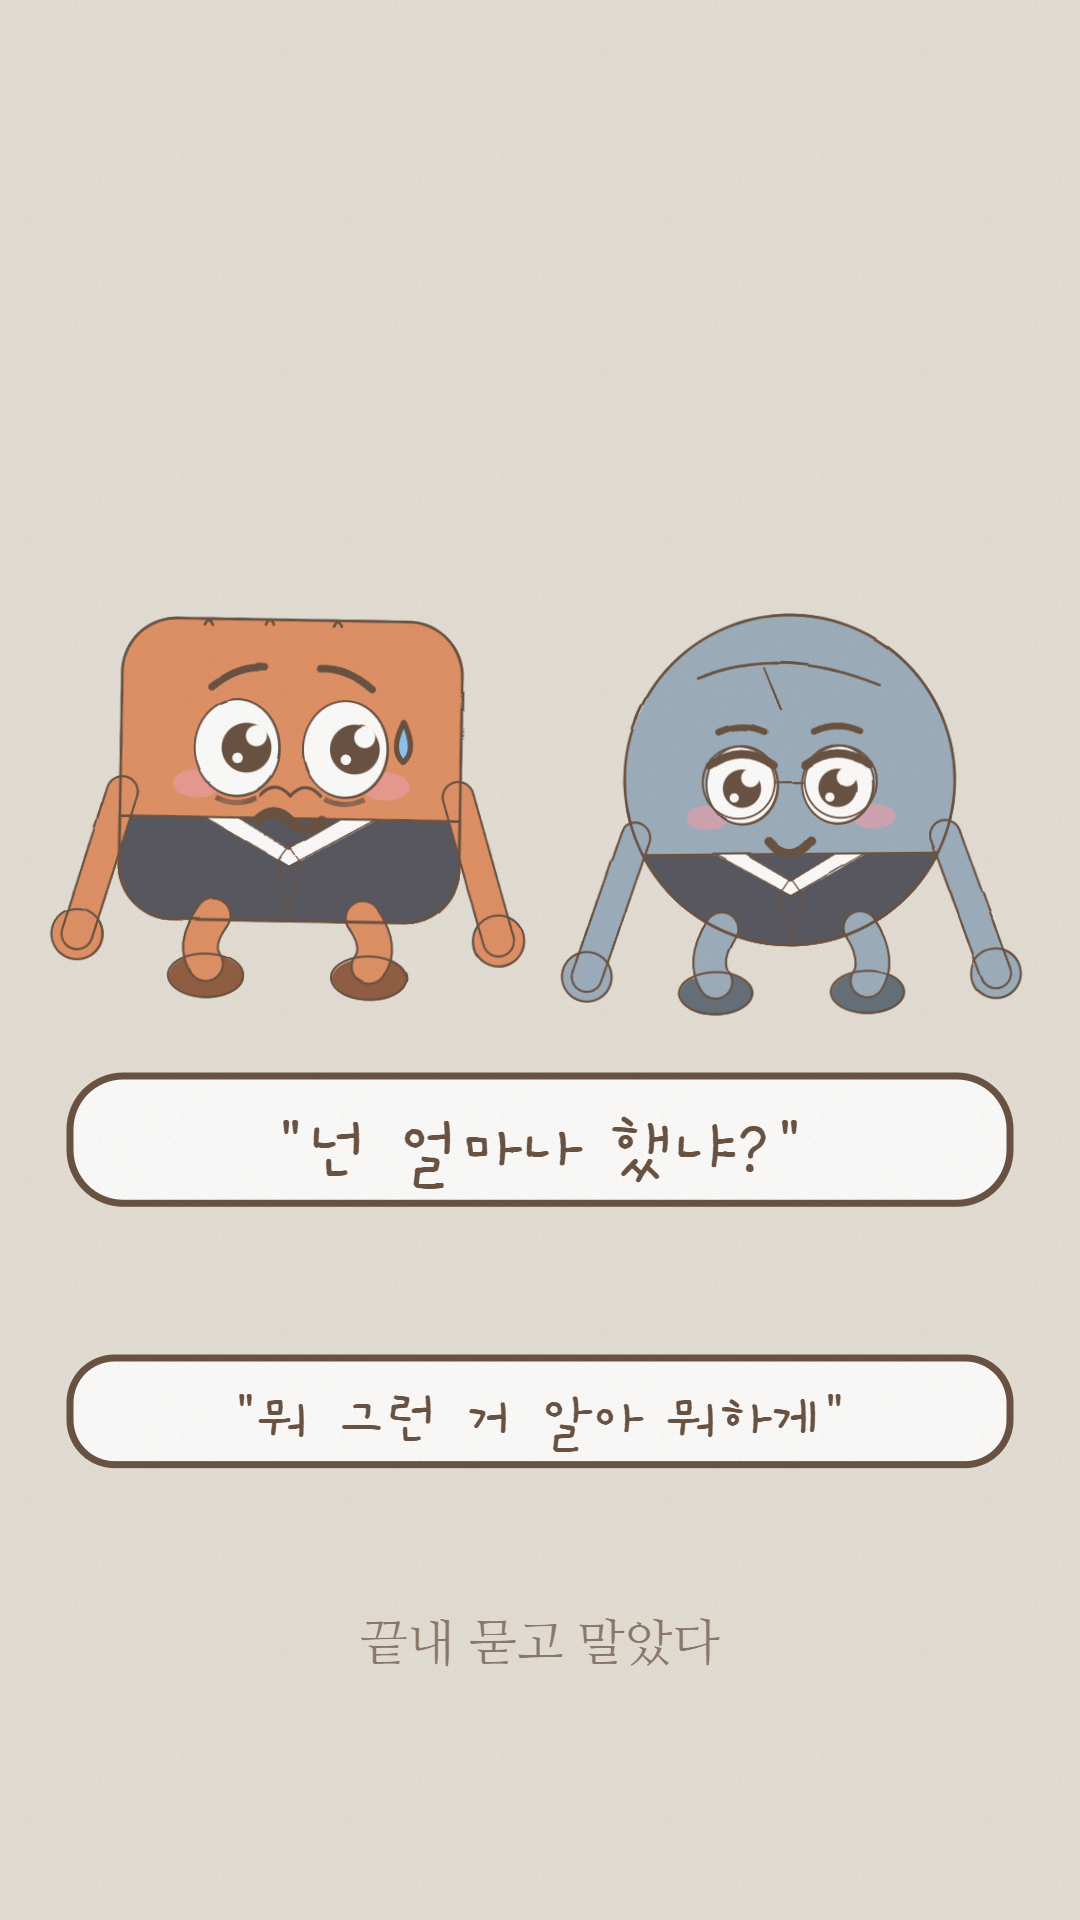
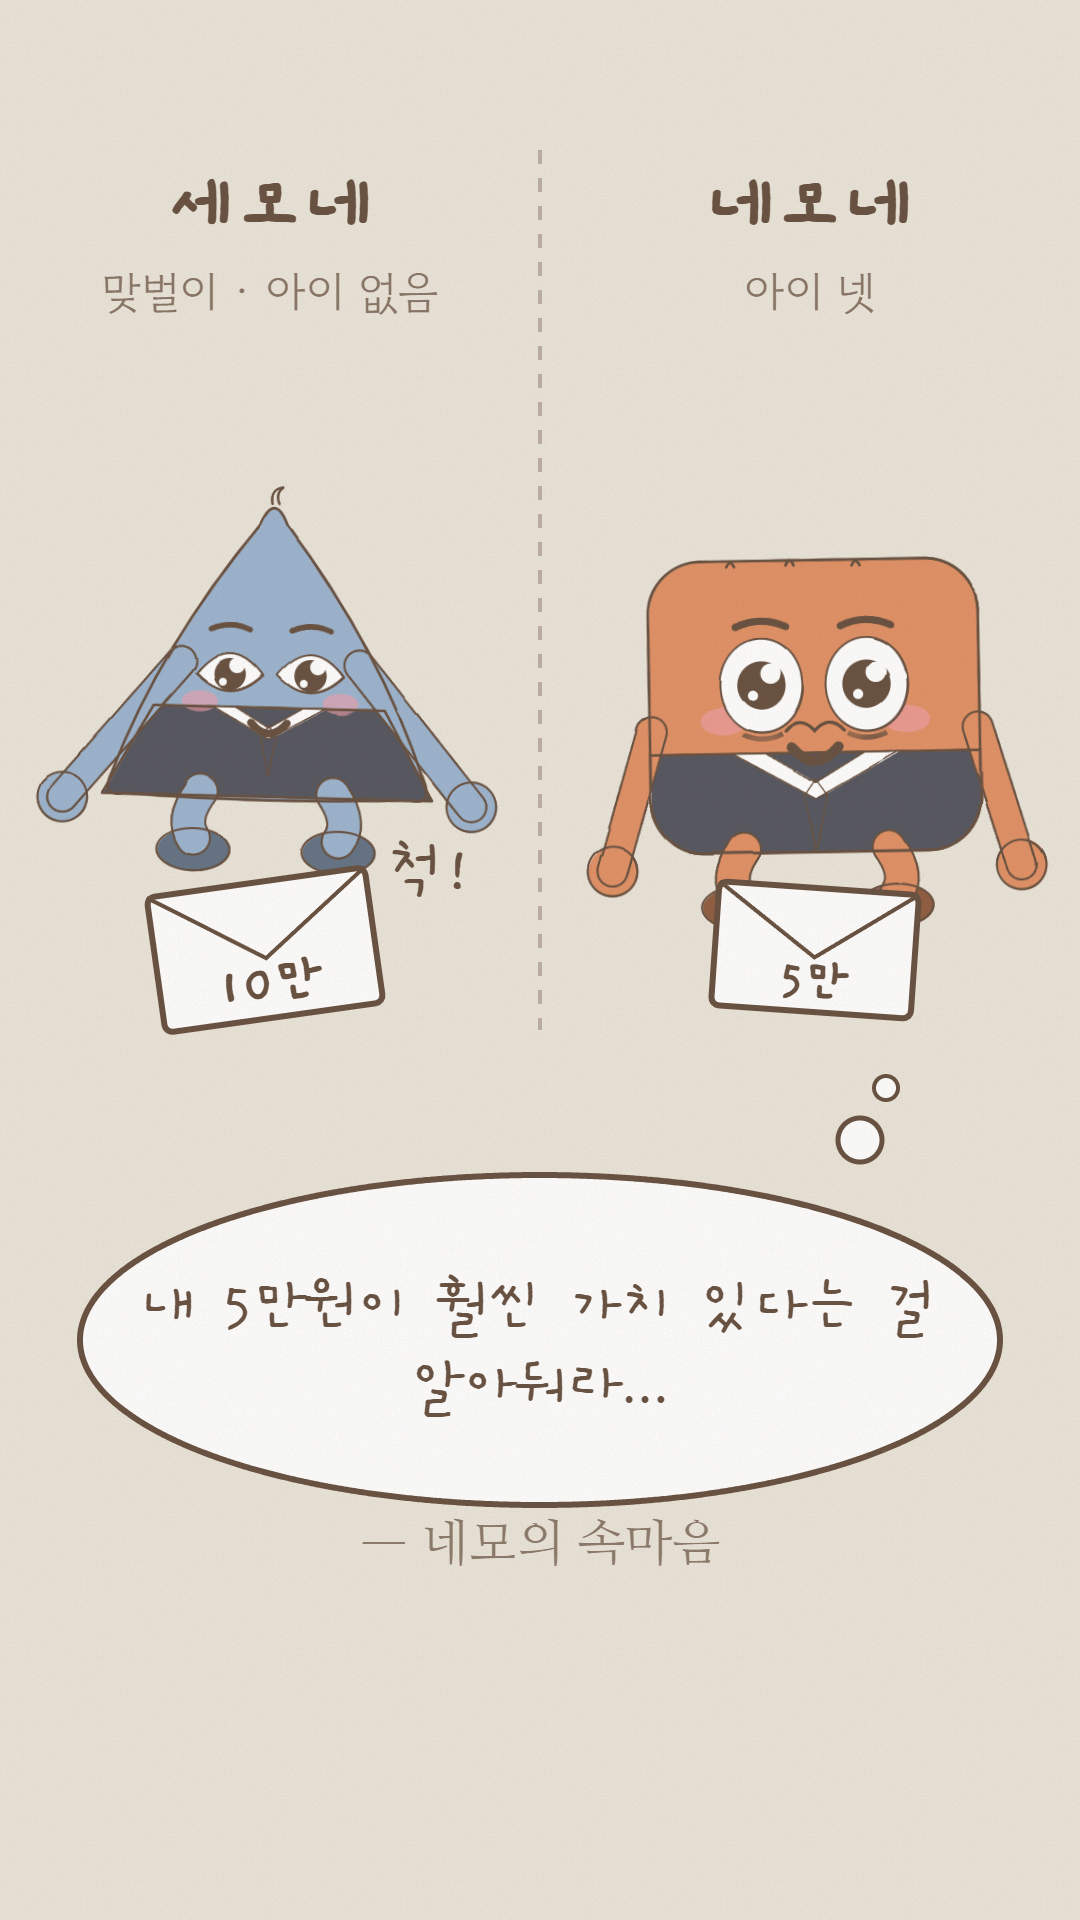
[shorts] s02 컷4 교체 — 세모네 10만 척 vs 네모네 5만 + 속마음 '알아둬라'
의미 없던 원작 대화 대신 두 가족 대비로 세계관을 소개한다. 컷4 재녹음 대기.

Claude-Session: https://claude.ai/code/session_01B59xgHZtNiHCFMMXcUhcu9

diff --git a/web/shorts/s02.html b/web/shorts/s02.html
@@ -80,13 +80,30 @@ frame('#eef0ea', `
   ${src('SM C&C 틸리언 프로 2026.5 · 전국 성인 1,500명')}
 `);
 
-// ── 4 원작 대사 — 정답은 아무도 모른다 ──
-frame('#e6e1d8', `
-  ${nemoDad({ x: 120, y: 620, w: 340, h: 301, emo: 'worry', suit: true, gaze: 1 })}
-  ${dongDad({ cx: 790, cy: 780, r: 165, emo: 'calm', suit: true })}
-  ${line(1150, '"넌 얼마나 했냐?"', 74)}
-  ${line(1420, '"뭐 그런 거 알아 뭐하게"', 62)}
-  ${label('끝내 묻고 말았다', 1660)}
+// ── 4 두 가족의 봉투 — 세모는 고민 없이 10만, 네모의 속마음 ──
+// 큰 부의 봉투 (금액을 겉에 크게)
+const env = (cx, cy, w, amount, rot = 0) => { const h = w * 0.62;
+  return `<g transform="translate(${cx},${cy}) rotate(${rot})"><rect x="${-w / 2}" y="${-h / 2}" width="${w}" height="${h}" rx="8" fill="#fff" stroke="${INK}" stroke-width="6"/>` +
+    `<path d="M${-w / 2},${-h / 2} L0,${h * 0.06} L${w / 2},${-h / 2}" fill="none" stroke="${INK}" stroke-width="4"/>` +
+    T(0, h * 0.36, amount, w * 0.26, 'middle', F, INK, 'font-weight="700"') + '</g>'; };
+// 속마음 구름 말풍선 — 꼬리는 작은 원 두 개
+const thought = (cx, cy, w, h, lines, size, tx, ty) =>
+  `<ellipse cx="${cx}" cy="${cy}" rx="${w / 2}" ry="${h / 2}" fill="#fff" stroke="${INK}" stroke-width="6" stroke-dasharray="2 0"/>` +
+  `<circle cx="${tx}" cy="${ty}" r="22" fill="#fff" stroke="${INK}" stroke-width="5"/><circle cx="${tx + 26}" cy="${ty - 52}" r="12" fill="#fff" stroke="${INK}" stroke-width="4"/>` +
+  lines.map((t, i) => T(cx, cy - (lines.length - 1) * size * 0.62 + i * size * 1.24 + size * 0.35, t, size, 'middle', F, INK)).join('');
+frame('#ebe5da', `
+  <line x1="540" y1="150" x2="540" y2="1030" stroke="${INK}" stroke-width="4" stroke-dasharray="14 14" opacity=".35"/>
+  ${T(270, 230, '세모네', 84, 'middle', F, INK, 'font-weight="700"')}
+  ${T(270, 310, '맞벌이 · 아이 없음', 44, 'middle', FB, INK, 'opacity=".75"')}
+  ${T(810, 230, '네모네', 84, 'middle', F, INK, 'font-weight="700"')}
+  ${T(810, 310, '아이 넷', 44, 'middle', FB, INK, 'opacity=".75"')}
+  ${semoHusband({ x: 105, y: 500, size: 330, emo: 'good', suit: true })}
+  ${env(265, 950, 220, '10만', -8)}
+  ${T(430, 890, '척!', 68, 'middle', F, INK)}
+  ${nemoDad({ x: 650, y: 560, w: 330, h: 292, emo: 'good', suit: true })}
+  ${env(815, 950, 200, '5만', 4)}
+  ${thought(540, 1340, 920, 330, ['내 5만원이 훨씬 가치 있다는 걸', '알아둬라…'], 64, 860, 1140)}
+  ${label('— 네모의 속마음', 1560)}
 `);
 
 // ── 5 착지 — 5만원도 괜찮다 + 작가의 문장 ──

diff --git a/content/shorts/s02.md b/content/shorts/s02.md
@@ -5,7 +5,7 @@
 통계 출처: `docs/08_SOCIAL_STATS.md` · 대사: 작가 원문
 
 ## 구조 (v3, 2026-09-28)
-**통계(훅) → 안심 통계 → 원작 대사 → 5만원도 괜찮다(착지)**
+**통계(훅) → 안심 통계 → 두 가족의 봉투(세계관 소개) → 5만원도 괜찮다(착지)**
 핵심은 하나: **작은 금액도 나쁘지 않다.** 불안을 키우는 질문(먼 지인/지인, 받은 만큼?)은 뺐다.
 2026년 5월 "부의금 10만원 시대"는 이미 터진 이슈다. 새로 만들지 않고 **올라탄다.**
 
@@ -16,7 +16,7 @@
 | 1 | 0.0–2.5 | `f1.png` | **부의금 5만원, 적나요?** / 봉투 / 출처(카카오페이) | 0.0초 바로 시작. 페이드 인 금지 |
 | 2 | 2.5–5.5 | `f2.png` | 10만원 61.8% · 5만원 25.7% · 평균 95,300원 · 부담 65.8% | 정지 |
 | 3 | 5.5–8.5 | `f3.png` | **4명 중 1명은 여전히 5만원** 25.7% / 3명 중 2명은 "부담된다" | 정지 |
-| 4 | 8.5–11.0 | `f4.png` | "넌 얼마나 했냐?" / "뭐 그런 거 알아 뭐하게" | 정지 |
+| 4 | 8.5–11.0 | `f4.png` | 세모네(맞벌이·아이 없음) 10만 봉투 척! / 네모네(아이 넷) 5만 봉투 + 속마음 "내 5만원이 훨씬 가치 있다는 걸 알아둬라…" | 정지 |
 | 5 | 11.0–15.0 | `f5.png` | **5만원도 괜찮아요** / 그냥 형편껏 하고, 마음만 잘 전달되기를… + ①②③ | 마지막 정지 유지 |
 
 ## 나레이션
@@ -26,7 +26,7 @@
 | 1 | 부의금 오만 원, 적은 걸까요? |
 | 2 | 올해 처음으로 십만 원이 오만 원을 앞질렀습니다. 평균은 구만 오천 원. |
 | 3 | 그래도 네 명 중 한 명은, 여전히 오만 원입니다. 세 명 중 두 명은 부담된다고 답했고요. |
-| 4 | 넌 얼마나 했냐? 물어봐도… 뭐 그런 거 알아서 뭐 하게. |
+| 4 | 아이 없는 맞벌이 세모네는, 고민 없이 십만 원. 아이 넷 네모네는, 오만 원. …내 오만 원이 훨씬 가치 있다는 걸, 알아둬라. |
 | 5 | 오만 원도 괜찮아요. 형편껏 하고, 마음만 잘 전달되면 됩니다. 당신은요? |
 
 ## 녹음
@@ -37,7 +37,7 @@
 | 1 | 2.77-5.01 |
 | 2 | 7.33-10.42, 11.73-13.74 |
 | 3 | 16.54-19.62, 21.03-24.22 |
-| 4 | 26.00-28.36, 29.86-31.95 |
+| 4 | (재녹음 대기 — 2026-09-29 컷 4 교체) |
 | 5 | 34.32-35.65, 36.29-39.97, 41.78-42.49 |
 
 ## 소리
